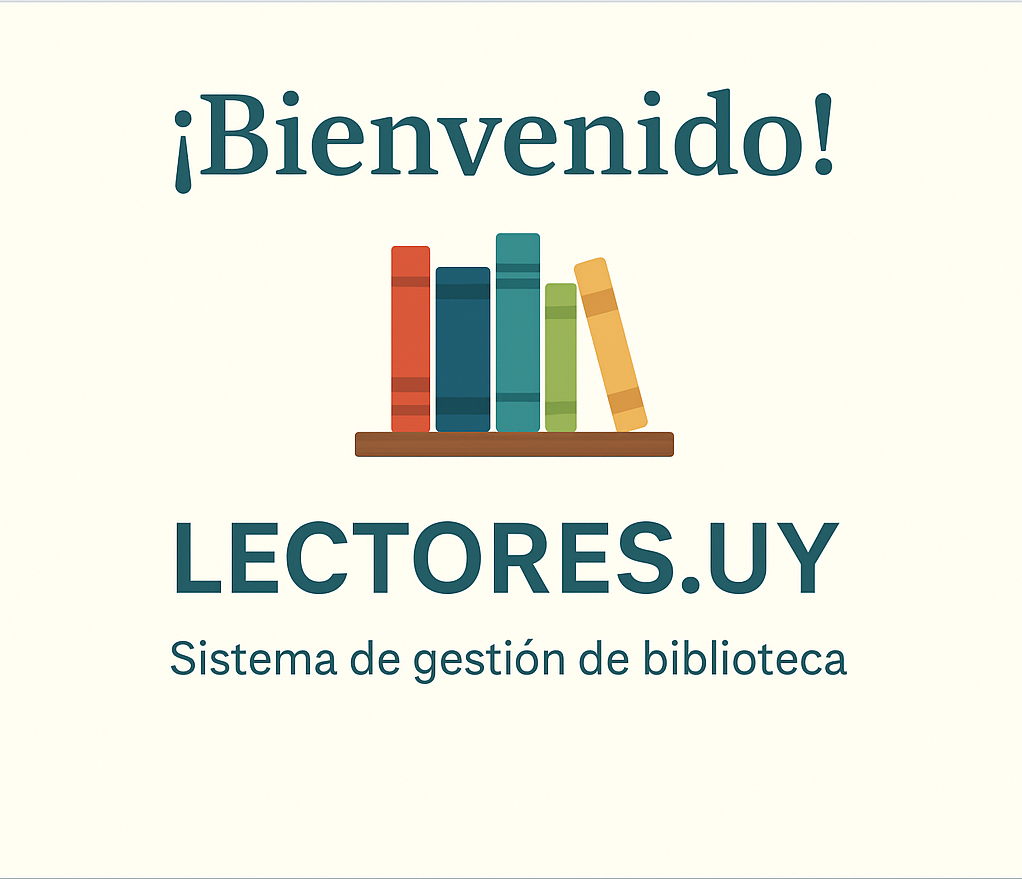
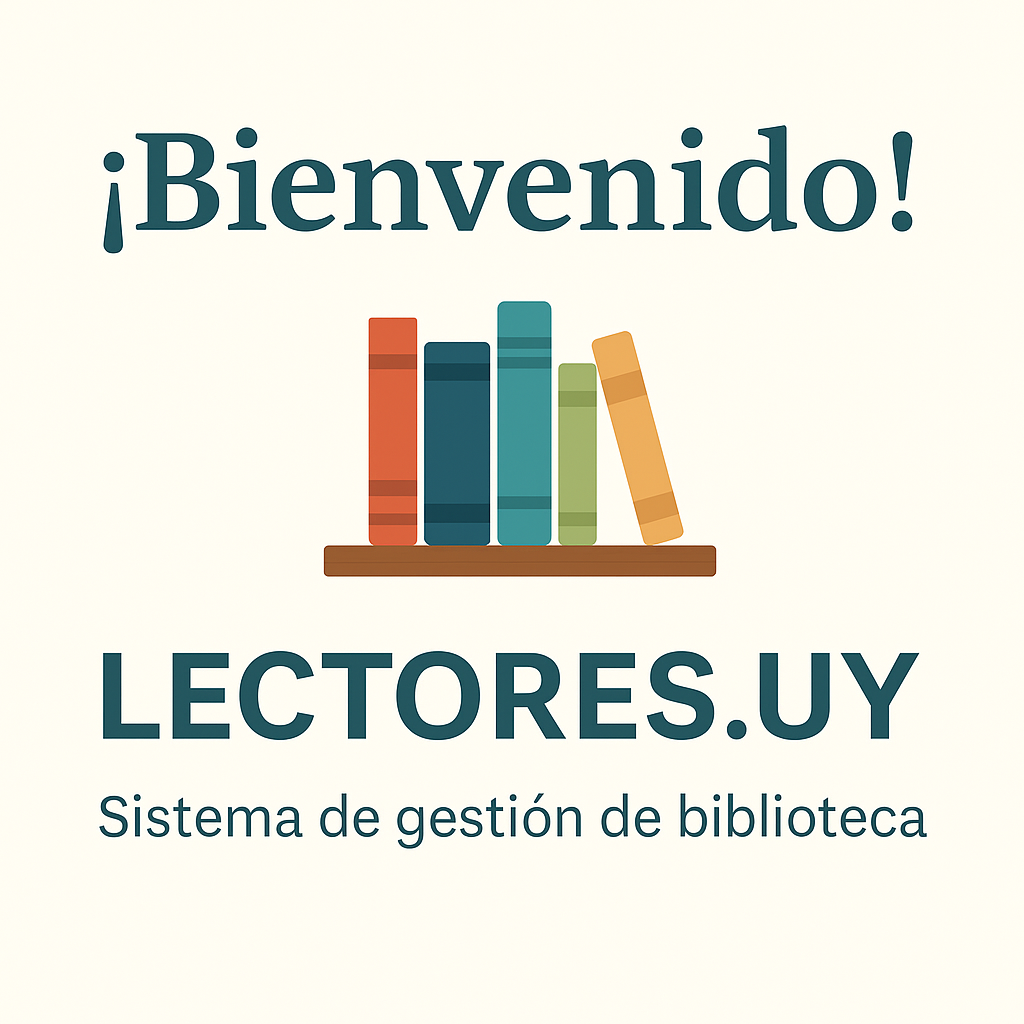
Ajuste de imagen principal

Changed region(s): [[0.091, 0.0922, 0.91, 0.8294]]

diff --git a/src/main/java/presentacion/FondoBibliotecaPanel.java b/src/main/java/presentacion/FondoBibliotecaPanel.java
@@ -2,6 +2,11 @@ package presentacion;
 
 import javax.swing.*;
 import java.awt.*;
+import java.awt.AlphaComposite;
+import java.awt.Graphics;
+import java.awt.Graphics2D;
+import java.awt.Image;
+import java.awt.RenderingHints;
 
 /**
  * Panel personalizado que muestra la imagen de la Biblioteca Nacional del Uruguay como fondo
@@ -11,20 +16,9 @@ public class FondoBibliotecaPanel extends JDesktopPane {
     private Image imagenFondo;
     private boolean imagenCargada = false;
     
-    private boolean estirarImagen = false; // Flag para controlar si estirar o mantener proporciones
-    
     public FondoBibliotecaPanel() {
         super();
         cargarImagenFondo();
-    }
-    
-    /**
-     * Establece si la imagen debe estirarse para cubrir toda la ventana
-     * @param estirar true para estirar, false para mantener proporciones
-     */
-    public void setEstirarImagen(boolean estirar) {
-        this.estirarImagen = estirar;
-        repaint();
     }
     
     private void cargarImagenFondo() {
@@ -60,25 +54,17 @@ public class FondoBibliotecaPanel extends JDesktopPane {
             
             int scaledWidth, scaledHeight, x, y;
             
-            if (estirarImagen) {
-                // Estirar la imagen para cubrir exactamente toda la ventana
-                scaledWidth = panelWidth;
-                scaledHeight = panelHeight;
-                x = 0;
-                y = 0;
-            } else {
-                // Mantener proporciones y cubrir toda la ventana
-                double scaleX = (double) panelWidth / imageWidth;
-                double scaleY = (double) panelHeight / imageHeight;
-                double scale = Math.max(scaleX, scaleY); // Usar el mayor para cubrir todo
-                
-                scaledWidth = (int) (imageWidth * scale);
-                scaledHeight = (int) (imageHeight * scale);
-                
-                // Centrar la imagen
-                x = (panelWidth - scaledWidth) / 2;
-                y = (panelHeight - scaledHeight) / 2;
-            }
+            // Mantener proporciones y cubrir toda la ventana
+            double scaleX = (double) panelWidth / imageWidth;
+            double scaleY = (double) panelHeight / imageHeight;
+            double scale = Math.min(scaleX, scaleY); // Usar el menor para contener toda la imagen
+            
+            scaledWidth = (int) (imageWidth * scale);
+            scaledHeight = (int) (imageHeight * scale);
+            
+            // Centrar la imagen
+            x = (panelWidth - scaledWidth) / 2;
+            y = (panelHeight - scaledHeight) / 2;
             
             // Dibujar la imagen con transparencia para que no interfiera con el contenido
             g2d.setComposite(AlphaComposite.getInstance(AlphaComposite.SRC_OVER, 0.8f));

diff --git a/src/main/java/presentacion/Principal.java b/src/main/java/presentacion/Principal.java
@@ -48,7 +48,6 @@ public class Principal extends JFrame {
         // Desktop pane para internal frames con fondo de la Biblioteca Nacional
         desktopPane = new FondoBibliotecaPanel();
         // Configurar para que la imagen se estire y cubra toda la ventana
-        ((FondoBibliotecaPanel) desktopPane).setEstirarImagen(true);
         add(desktopPane, BorderLayout.CENTER);
         
         // Crear menú
